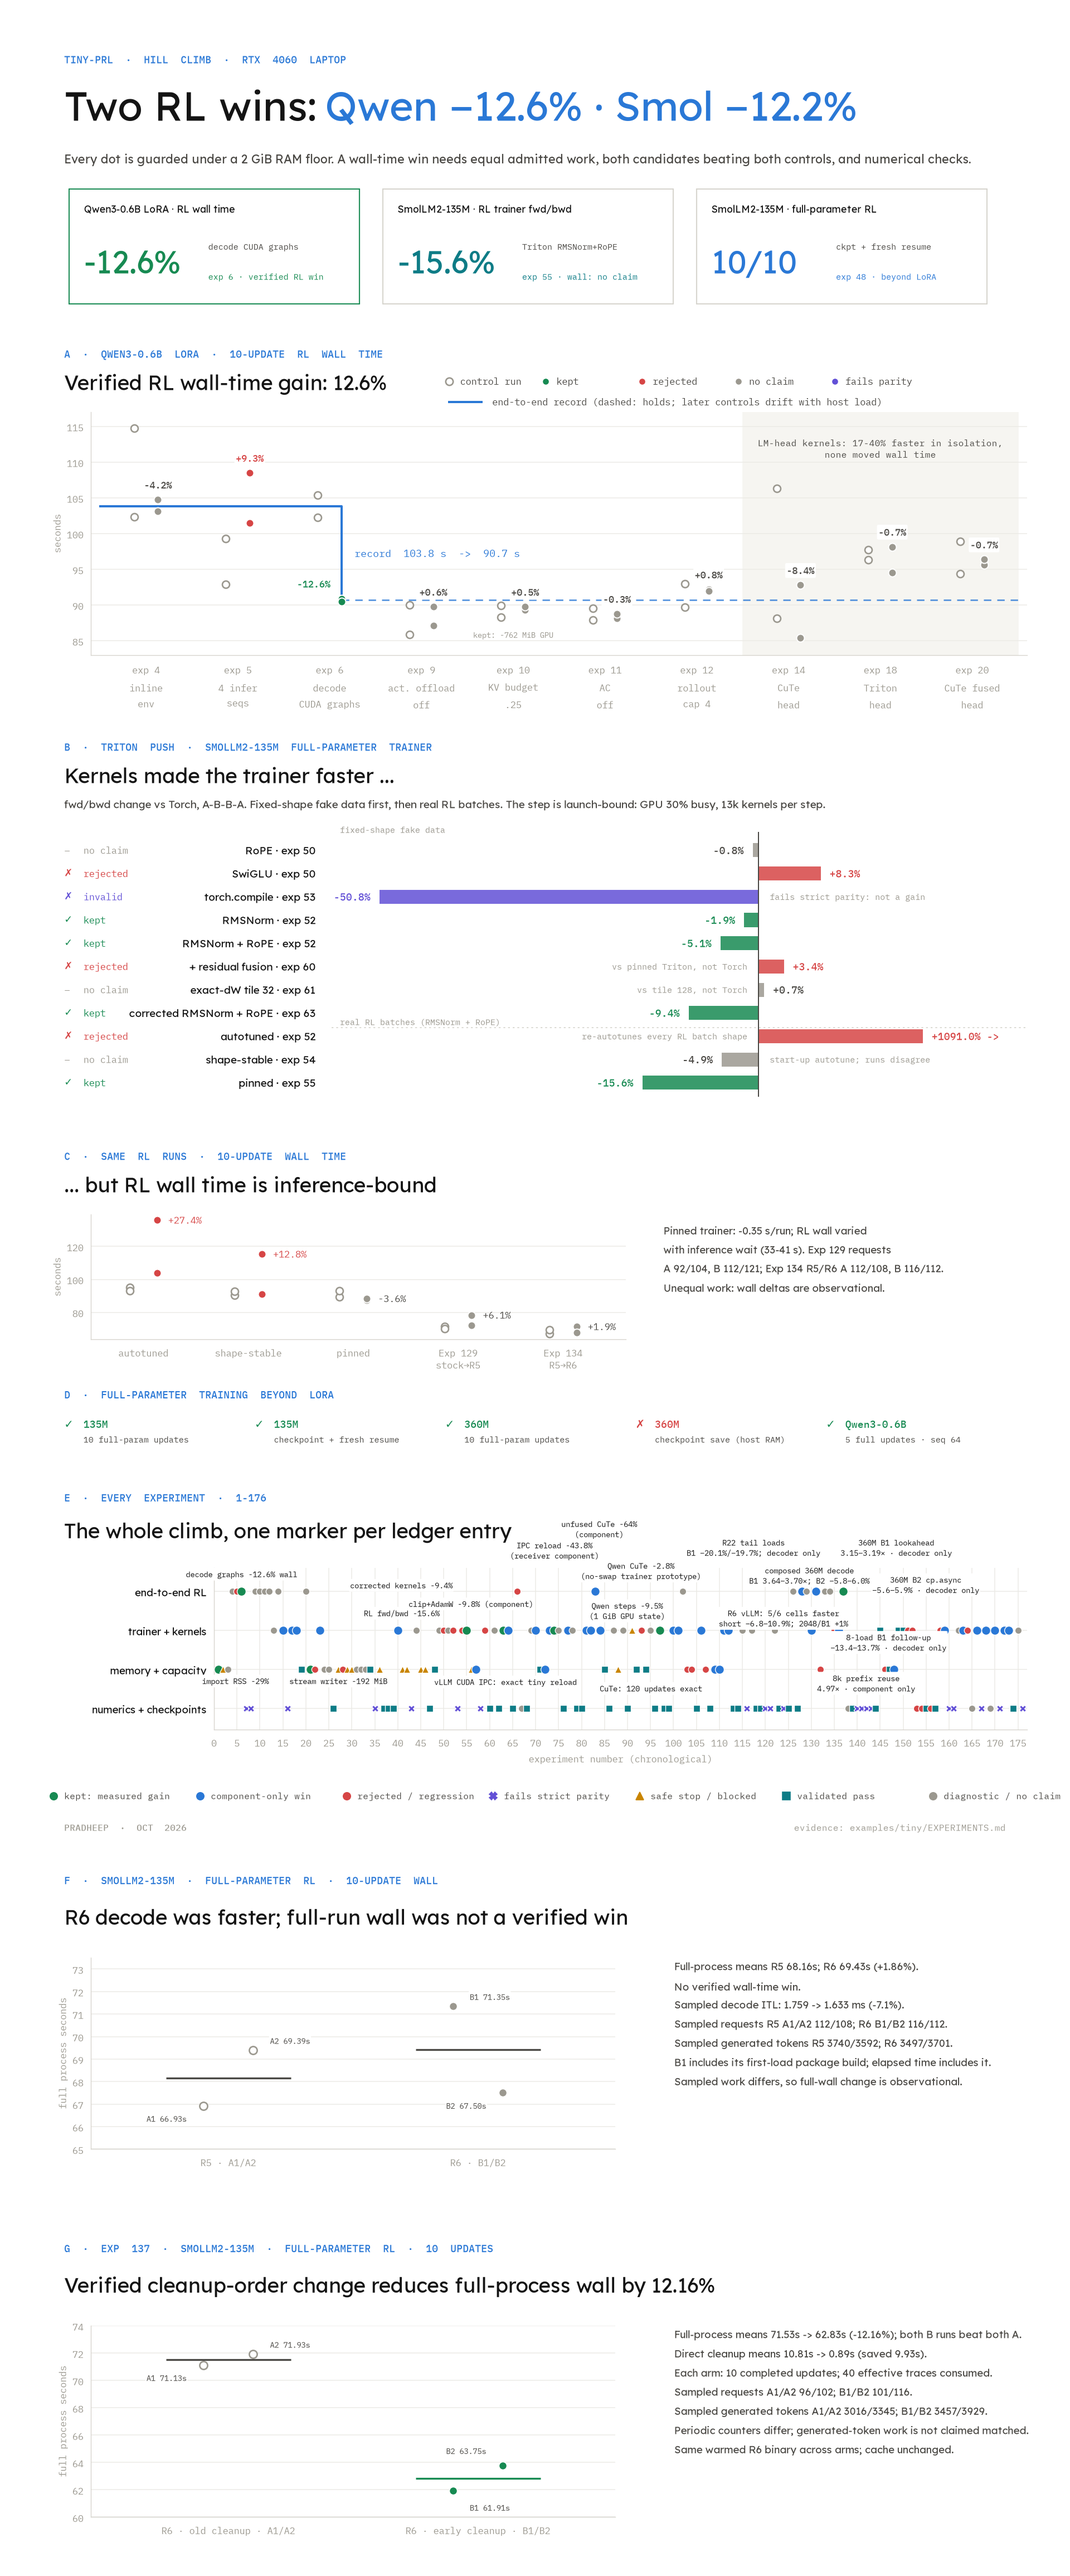
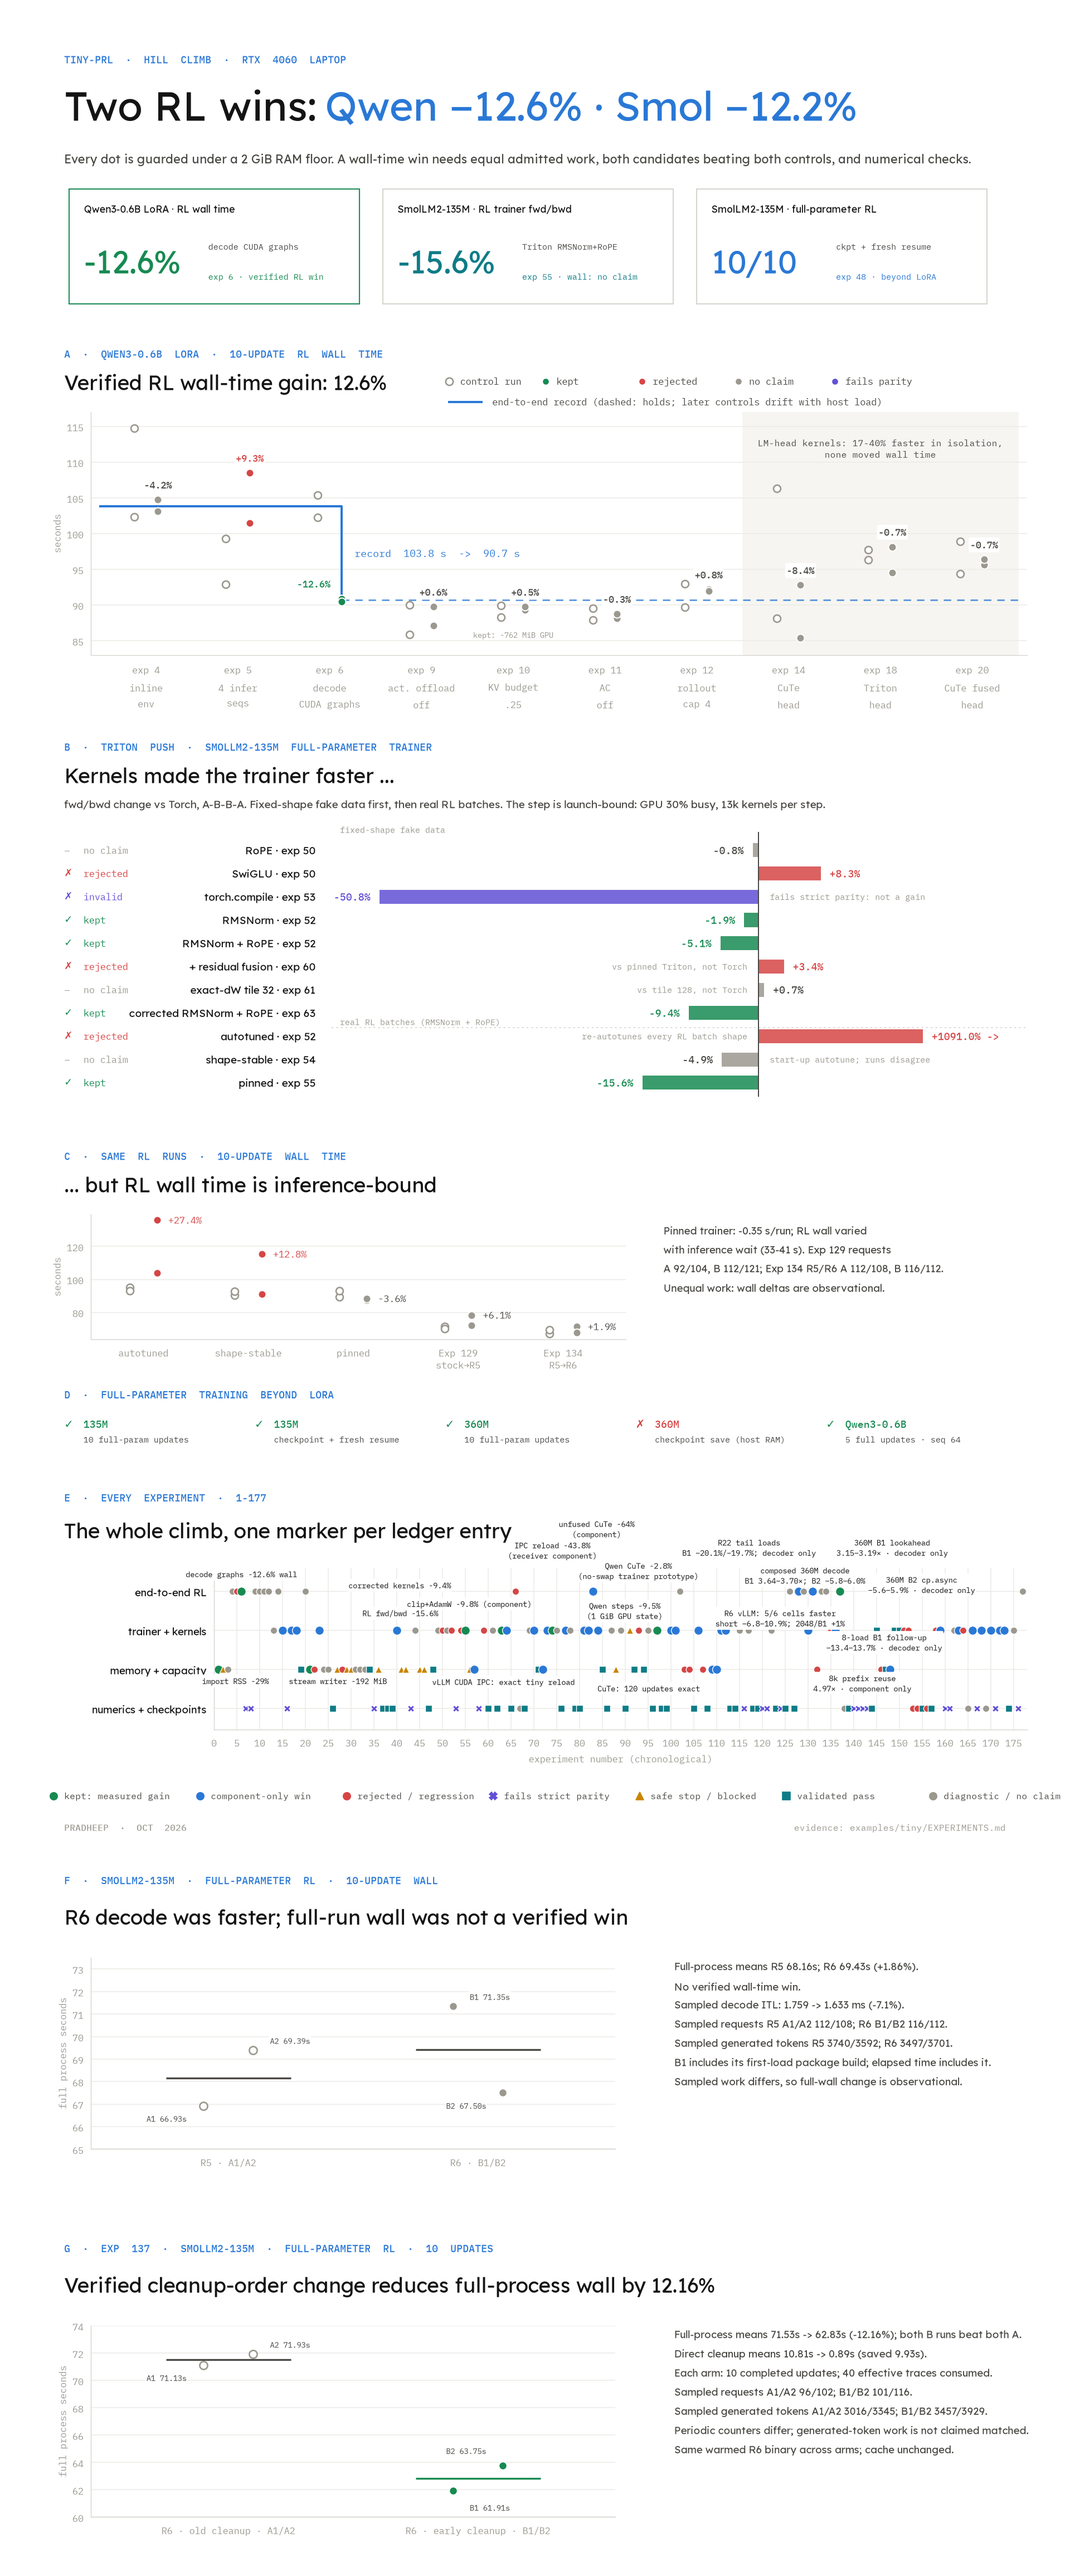
docs: record the repeated Triton RL wall-time comparison

diff --git a/tools/plot_tiny_hillclimb.py b/tools/plot_tiny_hillclimb.py
@@ -272,6 +272,7 @@ EXPERIMENTS = {
     174: (NUM, "validated"),
     175: (TRAIN, "none"),
     176: (NUM, "parity"),
+    177: (E2E, "none"),
 }
 # Callout text with (dx, dy) offsets in points, staggered so neighbours do not collide.
 CALLOUTS = {

diff --git a/examples/tiny/EXPERIMENTS.md b/examples/tiny/EXPERIMENTS.md
@@ -1485,3 +1485,15 @@ A twelve-step trainer A-B-B-A on the Qwen3-0.6B LoRA fixture (rank 8, `triton_ke
 ## Experiment 176: the Triton LM head still fails strict gradient parity at SmolLM2-135M
 
 The 135M dims parity check (V = 49,152, H = 576; 512 and 511 rows, FP32 inverse temperatures, full gradients, non-default stream) for `lm_head_triton_online_update` had failed on 10-20. The earlier record said the run never completed, which was wrong. It was rerun against the current trainer LM head, with only the reference-source hash re-pinned and the tolerances unchanged. Logprobs (3.8e-6) and entropy (1.9e-5) were within tolerance. The hidden-gradient error of 9.8e-4 and the weight-gradient error of 4.9e-4 failed the gradient tolerance (rtol 1e-2, atol 1e-4) on the 512-row case, matching the original failure. The kernel stays rejected and opt-in only, and the trainer default remains `torch`. Evidence: `outputs/tiny-kernel-20261020/triton/lm_head_135m/{parity_bench.py,parity_bench_r2.py,parity-guard/,parity-guard-r3/}`.
+
+## Experiment 177: Triton RoPE and RMSNorm still give no attributable RL wall-time gain after the cleanup fix
+
+Two A-B-B-A blocks repeated the end-to-end comparison from Experiment 55 on the current SmolLM2-135M full-parameter CUDA IPC profile, which includes the Experiment 137 early child cleanup. A used `triton_kernels = []`; B used `["rope", "rmsnorm"]`. Each run completed ten finite-loss updates, with 116–122 rollout attempts per run and mismatch KL of 0.0012–0.0021 in both arms. A first attempt was stopped by the guard's 2 GiB host-RAM floor before any work started; RAM held by the desktop shell was then released, and all eight runs completed.
+
+| Measure | Torch median | Triton median | Change | Blocks where both B beat both A |
+|---|---:|---:|---:|---:|
+| Trainer warm forward/backward | 0.216 s | 0.200 s | −7.1% | 1 of 2 |
+| Orchestrator loop | 31.35 s | 31.20 s | −0.5% | 0 of 2 |
+| Full-process wall | 60.36 s | 59.83 s | −0.9% | 0 of 2 |
+
+The kernels remain a trainer-component gain. About 0.15 s of saved trainer time across ten updates is well inside the roughly 2 s run-to-run wall spread, so no RL wall-time gain is attributed. All guards returned 0. Evidence: `outputs/rollout-overhead-20261025/triton-rl-abba-r1/{A1..A4,B1..B4}.toml,guard-*/result.json,output/,failed-ram-r0/`.
